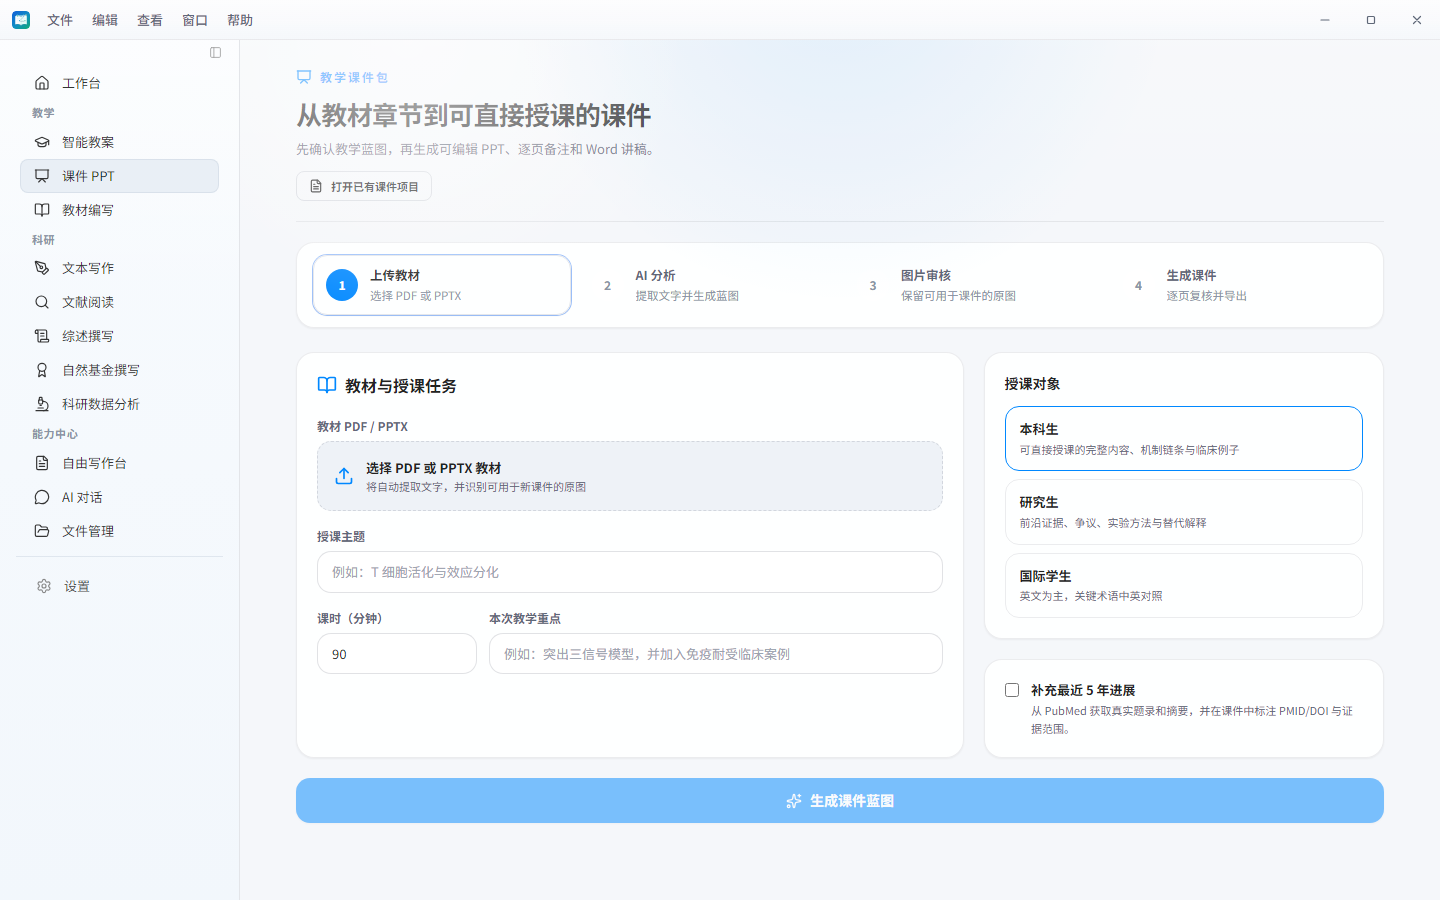
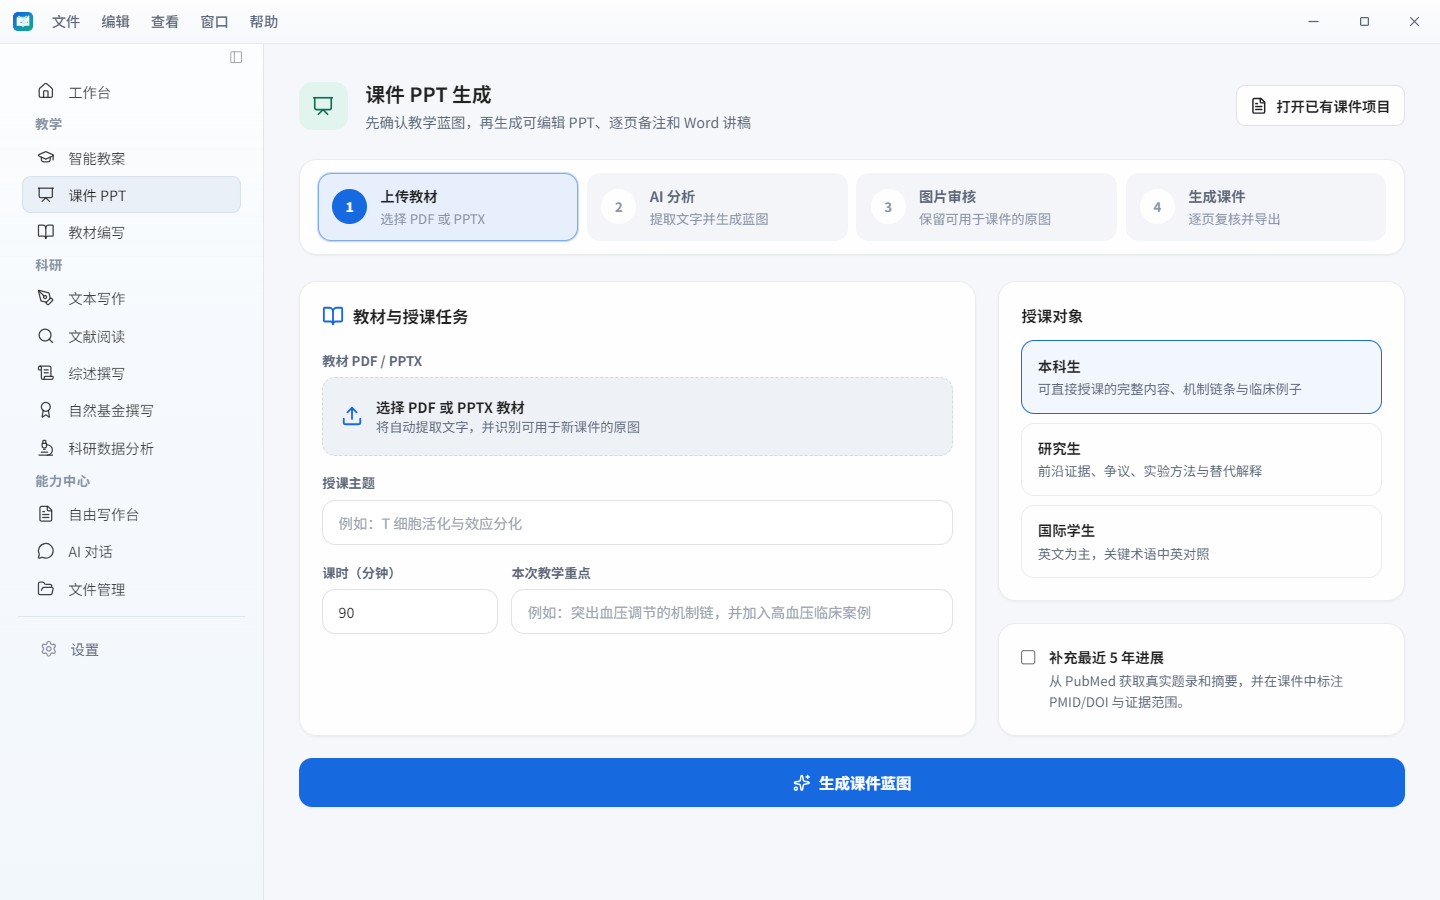
fix(chat): hide the writing context in messages on every page
Writing assistant messages start with an internal writing context
(interaction rules, the folder path and the open file). It was stripped
only on the writing page and only from the raw message text, so the
chat page, and history whose stored display text carried the same
context, showed it in full. Parse it from the display text on every
page, and leave the folder path out of the expanded context.

Update the README screenshots of the dashboard, courseware and data
analysis pages after the P0 review, and record the review in Task
0.6.1; the free writing screenshot still needs demo content.

diff --git a/src/renderer/src/components/chat/message-timeline-bubbles.tsx b/src/renderer/src/components/chat/message-timeline-bubbles.tsx
@@ -30,17 +30,11 @@ function UserMessageBubble({
 }): ReactElement {
   const { t } = useTranslation('common')
   const busy = useChatStore((s) => s.busy)
-  const route = useChatStore((s) => s.route)
   const rewindAndResend = useChatStore((s) => s.rewindAndResend)
   const [editing, setEditing] = useState(false)
   const [draft, setDraft] = useState(block.text)
   const [writeMetaOpen, setWriteMetaOpen] = useState(false)
   const textareaRef = useRef<HTMLTextAreaElement>(null)
-  const parsedWritePrompt = useMemo(() => {
-    if (route !== 'write') return null
-    const parsed = parseWritePromptForDisplay(block.text)
-    return parsed?.userInput.trim() ? parsed : null
-  }, [block.text, route])
   const parsedClawPrompt = useMemo(() => {
     const parsed = parseClawUserPromptForDisplay(block.text)
     if (!parsed.managed && !parsed.inbound && block.managedBy !== 'claw') return null
@@ -50,7 +44,13 @@ function UserMessageBubble({
     typeof block.meta?.displayText === 'string' && block.meta.displayText.trim()
       ? block.meta.displayText.trim()
       : null
-  const displayText = metaDisplayText ?? parsedWritePrompt?.userInput ?? parsedClawPrompt?.text ?? block.text
+  // Writing assistant messages carry the writing context ahead of the teacher's words, sometimes in
+  // the stored display text as well; show only what the teacher typed, on every page.
+  const parsedWritePrompt = useMemo(() => {
+    const parsed = parseWritePromptForDisplay(metaDisplayText ?? block.text)
+    return parsed?.userInput.trim() ? parsed : null
+  }, [block.text, metaDisplayText])
+  const displayText = parsedWritePrompt?.userInput ?? metaDisplayText ?? parsedClawPrompt?.text ?? block.text
   const canEdit = !metaDisplayText
   const showClawInboundCard = parsedClawPrompt?.inbound === true
 

diff --git a/src/renderer/src/components/chat/message-timeline-bubbles.test.ts b/src/renderer/src/components/chat/message-timeline-bubbles.test.ts
@@ -1,0 +1,27 @@
+import { createElement } from 'react'
+import { renderToStaticMarkup } from 'react-dom/server'
+import { describe, expect, it } from 'vitest'
+import type { ChatBlock } from '../../agent/types'
+import { composeWritePrompt } from '../../write/quoted-selection'
+import { MessageBubble } from './message-timeline-bubbles'
+
+const writePrompt = composeWritePrompt('方向A', [], {
+  workspaceRoot: 'C:/Users/teacher/.zhiyan/write_workspace',
+  activeFilePath: 'C:/Users/teacher/.zhiyan/write_workspace/welcome.md'
+})
+
+function userBlock(extra: Partial<Extract<ChatBlock, { kind: 'user' }>> = {}): ChatBlock {
+  return { kind: 'user', id: 'u-1', text: writePrompt, ...extra }
+}
+
+describe('user message bubble', () => {
+  it('shows only the teacher’s words from a writing assistant message on any page', () => {
+    for (const block of [userBlock(), userBlock({ meta: { displayText: writePrompt } })]) {
+      const html = renderToStaticMarkup(createElement(MessageBubble, { block }))
+
+      expect(html).toContain('方向A')
+      expect(html).not.toContain('request_user_input')
+      expect(html).not.toContain('C:/Users/teacher')
+    }
+  })
+})

diff --git a/src/renderer/src/components/chat/message-timeline-cards.tsx b/src/renderer/src/components/chat/message-timeline-cards.tsx
@@ -352,11 +352,6 @@ export function WorkMetaRow({
   )
 }
 
-/**
- * Tiny mono "via <model>" tag rendered above the user message body. Subtle by
- * design — no pill, no ring, just faint monospaced text right-aligned at the
- * top of the bubble. Hidden when there's no model selection to surface.
- */
 function writePromptMetaSummary(
   display: WritePromptDisplay,
   t: (key: string, opts?: Record<string, unknown>) => string
@@ -410,12 +405,6 @@ export function WritePromptMetaDisclosure({
                 <div className="mt-1 truncate">
                   <span className="text-ds-faint">{t('writePromptActiveFile')} </span>
                   <span className="font-mono text-ds-muted">{display.context.activeFile}</span>
-                </div>
-              ) : null}
-              {display.context.workspaceRoot ? (
-                <div className="mt-0.5 truncate" title={display.context.workspaceRoot}>
-                  <span className="text-ds-faint">{t('writePromptWorkspace')} </span>
-                  <span className="font-mono text-ds-muted">{display.context.workspaceRoot}</span>
                 </div>
               ) : null}
             </div>

diff --git a/docs/AI_NATIVE_REDESIGN_PLAN.md b/docs/AI_NATIVE_REDESIGN_PLAN.md
@@ -419,7 +419,7 @@ type TeacherPreference = {
 
 #### Task 0.6 · P0 验收
 
-- [ ] **0.6.1** 全部页面在亮、暗两种主题下截图审查（方法见第八节）；更新 `docs/images/` 中的 README 截图。
+- [~] **0.6.1** 全部页面在亮、暗两种主题下截图审查（方法见第八节）；更新 `docs/images/` 中的 README 截图。（2026-10-22）13 个页面两种主题已截图审查，排版与配色一致；审查中发现并修复：在 AI 对话页打开写作会话时，用户消息显示内部“写作上下文”原文（含 `request_user_input` 和本机路径）——原因是只在写作页解析，且未解析历史消息自带的显示文本；写作上下文展开后也不再显示工作区路径。README 截图已更新工作台、课件、数据分析三张；**自由写作台一张仍为旧图**，需要用去标识的演示文稿重拍（开发者本机的写作空间只有个人文稿，不适合放入公开仓库）。
 
 ### P1 AI 交互骨架
 
@@ -597,4 +597,4 @@ npx electron-vite dev --remoteDebuggingPort 9222
 
 ## 十一、当前执行位置
 
-当前执行任务：**Task 0.5.3 已完成，Task 0.5 全部完成。下一项为 Task 0.6.1（P0 验收截图）。**
+当前执行任务：**Task 0.6.1 进行中：只差用演示文稿重拍 README 的自由写作台截图。之后进入 P1（Task 1.1.1 成果登记）。**
